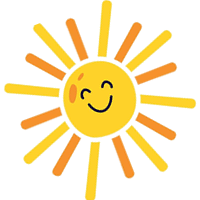
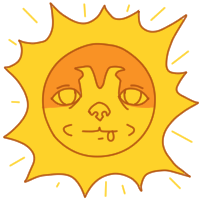
another johan w and background scroll
- johan batsard sun
- scrolling background by texture offset

diff --git a/Assets/Scripts/Manager.cs b/Assets/Scripts/Manager.cs
@@ -24,10 +24,10 @@ public class Manager : MonoBehaviour
 	private float currentSpeed = 0;
 
 	[SerializeField]
-	private float backgroundRate = 3f; // This is a strange offset to position conversion, so number shall vary
+	private float backgroundRate = 0.2f; // This is a strange offset to position conversion, so number shall vary
 
 	[SerializeField]
-	private float midgroundRate = 5f; // elements between game and background
+	private float midgroundRate = 3f; // elements between game and background
 
 	[SerializeField]
 	private float foregroundRate = 6f; // enemies and such
@@ -68,7 +68,7 @@ public class Manager : MonoBehaviour
 
 	[Header("Elements")]
 	[SerializeField]
-	private GameObject background;
+	private SpriteRenderer background;
 
 	[SerializeField]
 	private SpriteRenderer road;
@@ -249,7 +249,7 @@ public class Manager : MonoBehaviour
 		{
 			GameObject bgo = move[x];
 			Vector2 tmpPos = bgo.transform.position;
-			tmpPos.x -= GetSpeed(EnvtLayer.Background);
+			tmpPos.x -= GetSpeed(EnvtLayer.Midground);
 			bgo.transform.position = tmpPos;
 			if (tmpPos.x <= spawnMinimumX)
 			{
@@ -273,6 +273,15 @@ public class Manager : MonoBehaviour
 					currentOffset.x = 0;
 				}
 				road.material.mainTextureOffset = currentOffset;
+
+				currentOffset = background.material.mainTextureOffset;
+				currentOffset.x += GetSpeed(EnvtLayer.Background);
+				if (currentOffset.x > 2f)
+				{
+					currentOffset.x = 0;
+				}
+				background.material.mainTextureOffset = currentOffset;
+
 
 				MoveObjects(backgroundObjects);
 			}
